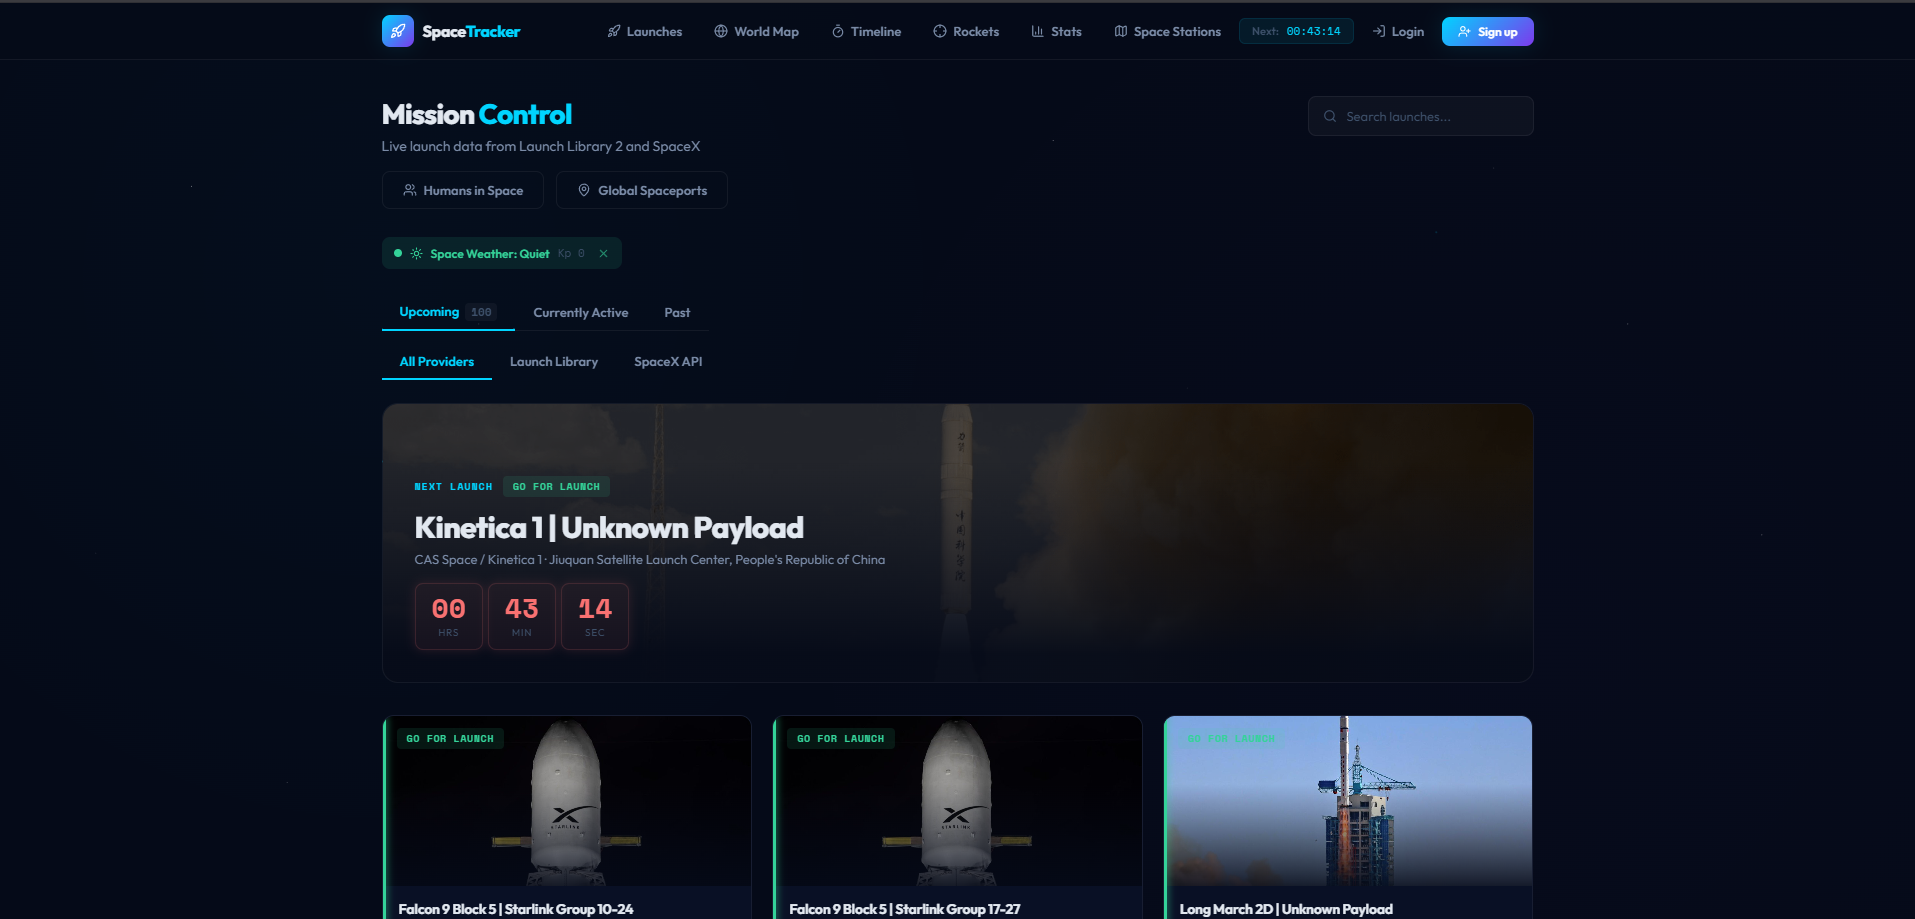
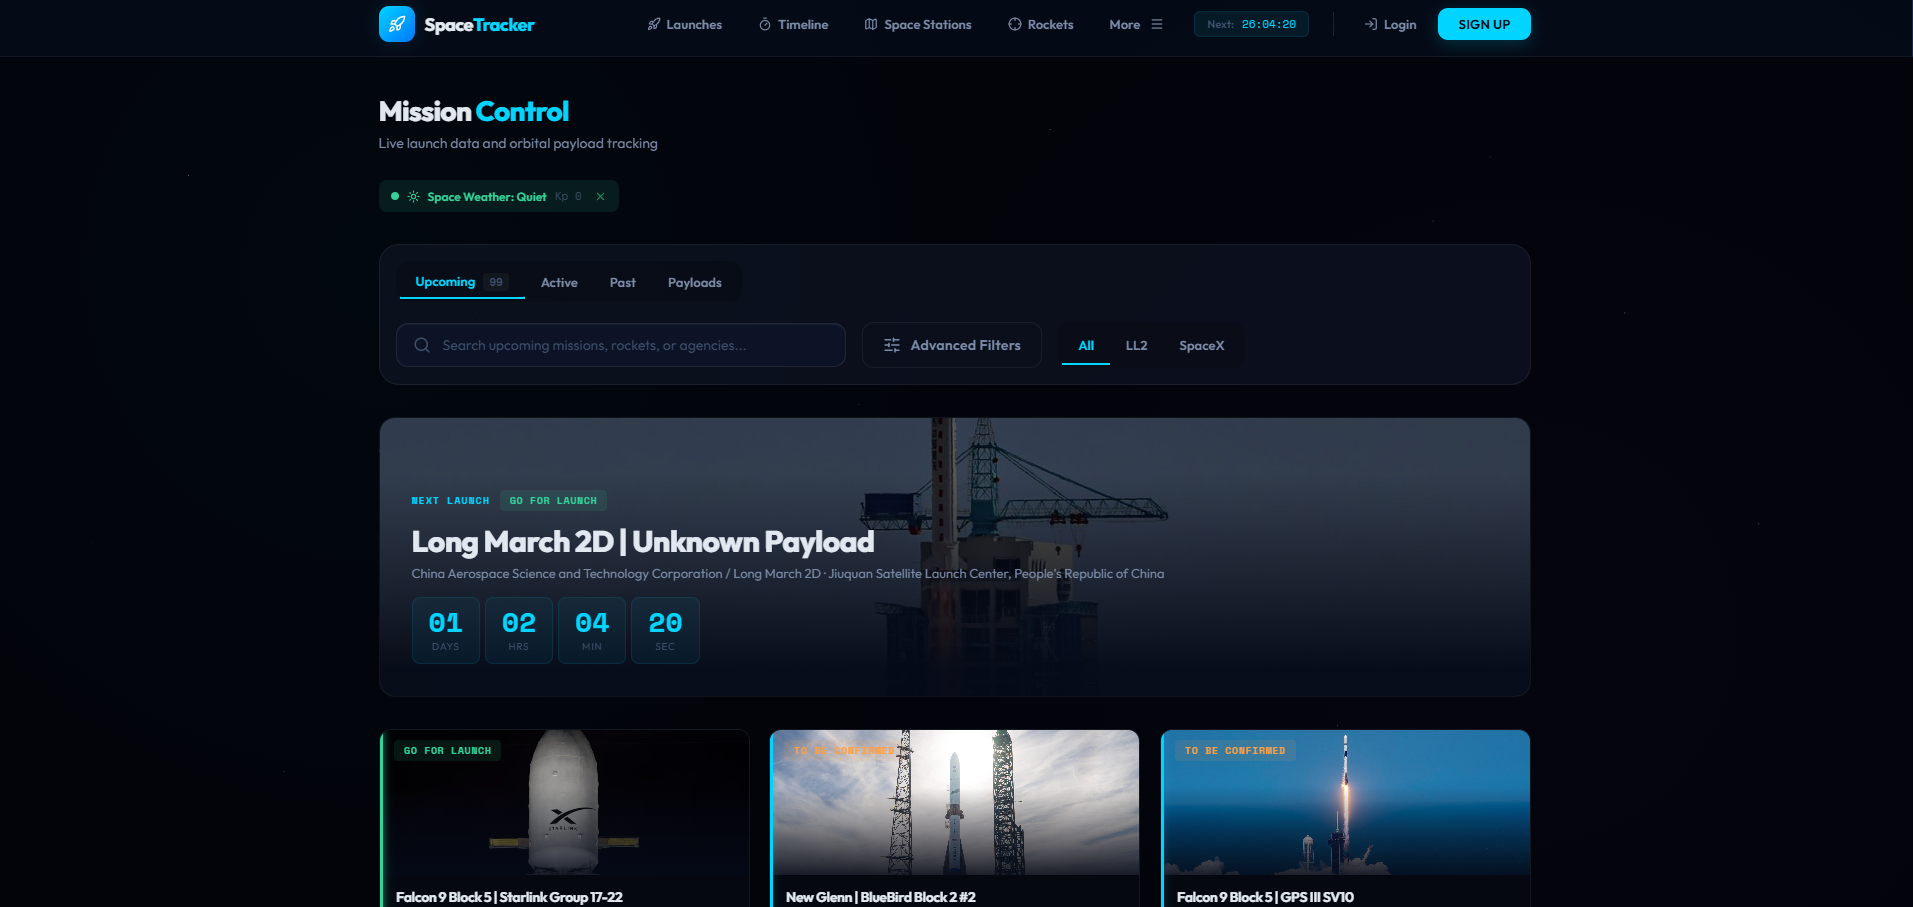
updated the recent starbase tests to only show starship related stuff

diff --git a/backend/launches/views.py b/backend/launches/views.py
@@ -869,9 +869,14 @@ class StarshipTestsView(APIView):
     
     # Search keywords for Starship related content
     KEYWORDS = [
-        'starship', 'starbase', 'booster', 'ship', 'flight', 'ift', 
-        'boca chica', 'massey', 'launch', 'test', 'static fire', 
-        'cryo', 'wdr', 'artemis', 'starship update', 'spacex', 'nasa'
+        'starship', 'starbase', 'booster', 'super heavy', 'boca chica', 
+        'massey', 'static fire', 'ift', 'ship 3', 'ship 2', 'booster 1', 'booster 2'
+    ]
+
+    # Content to explicitly exclude (Artemis, SLS, Falcon 9, etc.)
+    NEGATIVE_KEYWORDS = [
+        'artemis', 'sls', 'falcon 9', 'falcon heavy', 'dragon', 
+        'blue origin', 'new glenn', 'vulcan', 'atlas', 'soyuz', 'ariane'
     ]
 
     # Default/Fallback Checklist for Flight 12 (Current as of April 2026)
@@ -897,11 +902,45 @@ class StarshipTestsView(APIView):
         task_status['s39_static'] = 'complete' # Seed from recent known test
 
         entries = []
+        seen_ids = set()
+
+        def add_entry(vid, title, link, published, thumbnail):
+            if vid not in seen_ids:
+                entries.append({
+                    'id': vid,
+                    'title': title,
+                    'link': link,
+                    'published': published,
+                    'thumbnail': thumbnail
+                })
+                seen_ids.add(vid)
+
         try:
             headers = {
                 'User-Agent': 'Mozilla/5.0 (Windows NT 10.0; Win64; x64) AppleWebKit/537.36 (KHTML, like Gecko) Chrome/91.0.4472.124 Safari/537.36',
                 'Accept': 'application/xml,text/xml,*/*'
             }
+            
+            # --- Twitter/X Best Guess (SpaceX) ---
+            # Try to find recent milestones from SpaceX's public timeline if possible
+            try:
+                # Note: This is a fragile 'best effort' scraper for public X profiles
+                tx_resp = httpx.get('https://syndication.twitter.com/srv/timeline-profile/screen-name/SpaceX', timeout=8)
+                if tx_resp.status_code == 200:
+                    import re
+                    # Look for text in the timeline JSON
+                    tweets = re.findall(r'\"text\":\"([^\"]+)\"', tx_resp.text)
+                    for tweet in tweets:
+                        t_lower = tweet.lower().encode('utf-8').decode('unicode-escape', 'ignore')
+                        for d in checklist_defs:
+                            if any(k in t_lower for k in d['keywords']):
+                                if 'static fire' in t_lower and 'complete' in t_lower:
+                                    task_status[d['key']] = 'complete'
+                                if 'stacked' in t_lower or 'stacking' in t_lower:
+                                    task_status[d['key']] = 'complete'
+            except Exception:
+                pass
+
             resp = httpx.get(rss_url, timeout=12, headers=headers, follow_redirects=True)
             
             # --- RSS Parsing ---
@@ -916,12 +955,16 @@ class StarshipTestsView(APIView):
                     title = title_elem.text
                     title_lower = title.lower()
                     
+                    # Update checklist from titles
                     for d in checklist_defs:
                         if any(k in title_lower for k in d['keywords']):
                             if all(no not in title_lower for no in ['upcoming', 'live', 'scheduled']):
                                 task_status[d['key']] = 'complete'
 
                     if any(k in title_lower for k in self.KEYWORDS):
+                        if any(nk in title_lower for nk in self.NEGATIVE_KEYWORDS):
+                            continue
+
                         video_id_elem = entry.find('atom:id', ns)
                         video_id = video_id_elem.text.split(':')[-1] if video_id_elem is not None else ''
                         link_elem = entry.find('atom:link', ns)
@@ -935,13 +978,7 @@ class StarshipTestsView(APIView):
                             thumb_elem = media_group.find('media:thumbnail', ns)
                             if thumb_elem is not None: thumbnail = thumb_elem.attrib.get('url', '')
                         
-                        entries.append({
-                            'id': video_id,
-                            'title': title,
-                            'link': link,
-                            'published': published,
-                            'thumbnail': thumbnail
-                        })
+                        add_entry(video_id, title, link, published, thumbnail)
             
             # --- Scraper Fallback (if RSS is empty or failed) ---
             if not entries:
@@ -949,37 +986,34 @@ class StarshipTestsView(APIView):
                 scrape_url = f"https://www.youtube.com/channel/{self.CHANNEL_ID}/videos"
                 sresp = httpx.get(scrape_url, headers=headers, timeout=10, follow_redirects=True)
                 if sresp.status_code == 200:
-                    # Robust regex found via testing
-                    import re
+                    import re, html
                     pattern = r'"videoId":"(?P<id>[a-zA-Z0-9_-]{11})".*?"title":\{"runs":\[\{"text":"(?P<title>[^"]+)"\}\]'
                     video_matches = list(re.finditer(pattern, sresp.text))
                     
-                    for match in video_matches[:20]:
+                    for match in video_matches[:25]:
                         vid = match.group('id')
-                        title = match.group('title')
-                        title_lower = title.lower()
-                        # Clean unicode escapes in title
-                        try:
-                            title = title.encode('utf-8').decode('unicode-escape').decode('utf-8') if '\\u' in title else title
-                        except Exception:
-                            pass
+                        raw_title = match.group('title')
                         
-                        # Update checklist from scraped titles too
+                        # Clean title properly using html unescape and handling unicode
+                        try:
+                            title = html.unescape(raw_title).encode('utf-8').decode('unicode-escape')
+                        except Exception:
+                            title = raw_title
+                            
+                        title_lower = title.lower()
+                        
+                        # Update checklist from scraped titles
                         for d in checklist_defs:
                             if any(k in title_lower for k in d['keywords']):
                                 if all(no not in title_lower for no in ['upcoming', 'live', 'scheduled']):
                                     task_status[d['key']] = 'complete'
 
                         if any(k in title_lower for k in self.KEYWORDS):
-                            # Use current time as fallback published date in ISO format
+                            if any(nk in title_lower for nk in self.NEGATIVE_KEYWORDS):
+                                continue
+
                             published_date = timezone.now().strftime('%Y-%m-%dT%H:%M:%S+00:00')
-                            entries.append({
-                                'id': vid,
-                                'title': title,
-                                'link': f"https://www.youtube.com/watch?v={vid}",
-                                'published': published_date,
-                                'thumbnail': f"https://i.ytimg.com/vi/{vid}/hqdefault.jpg"
-                            })
+                            add_entry(vid, title, f"https://www.youtube.com/watch?v={vid}", published_date, f"https://i.ytimg.com/vi/{vid}/hqdefault.jpg")
 
 
             

diff --git a/README.md b/README.md
@@ -1,16 +1,6 @@
 # Space Mission Tracker
 
-![React](https://img.shields.io/badge/React-20232A?style=flat&logo=react&logoColor=61DAFB)
-![Django](https://img.shields.io/badge/Django-092E20?style=flat&logo=django&logoColor=white)
-![DRF](https://img.shields.io/badge/Django_REST-ff1709?style=flat&logo=django&logoColor=white)
-![Tailwind CSS](https://img.shields.io/badge/Tailwind_CSS-38B2AC?style=flat&logo=tailwind-css&logoColor=white)
-![PostgreSQL](https://img.shields.io/badge/PostgreSQL-4169E1?style=flat&logo=postgresql&logoColor=white)
-![Vite](https://img.shields.io/badge/Vite-646CFF?style=flat&logo=vite&logoColor=white)
-![JWT](https://img.shields.io/badge/JWT-black?style=flat&logo=JSON%20web%20tokens)
-
-Live at [space-mission-tracker-nine.vercel.app](https://space-mission-tracker-nine.vercel.app/)
-
-Full-stack web app for tracking rocket launches from multiple sources. Browse upcoming and past missions, save launches to a personal watchlist, and write mission logs. Pulls live data from the Launch Library 2 API and the SpaceX API.
+A comprehensive mission control dashboard for space exploration enthusiasts. This full-stack application allows users to track global rocket launches in real time, explore detailed mission histories, and manage personal watchlists, all powered by live data from multiple industry-leading sources.
 
 ---
 